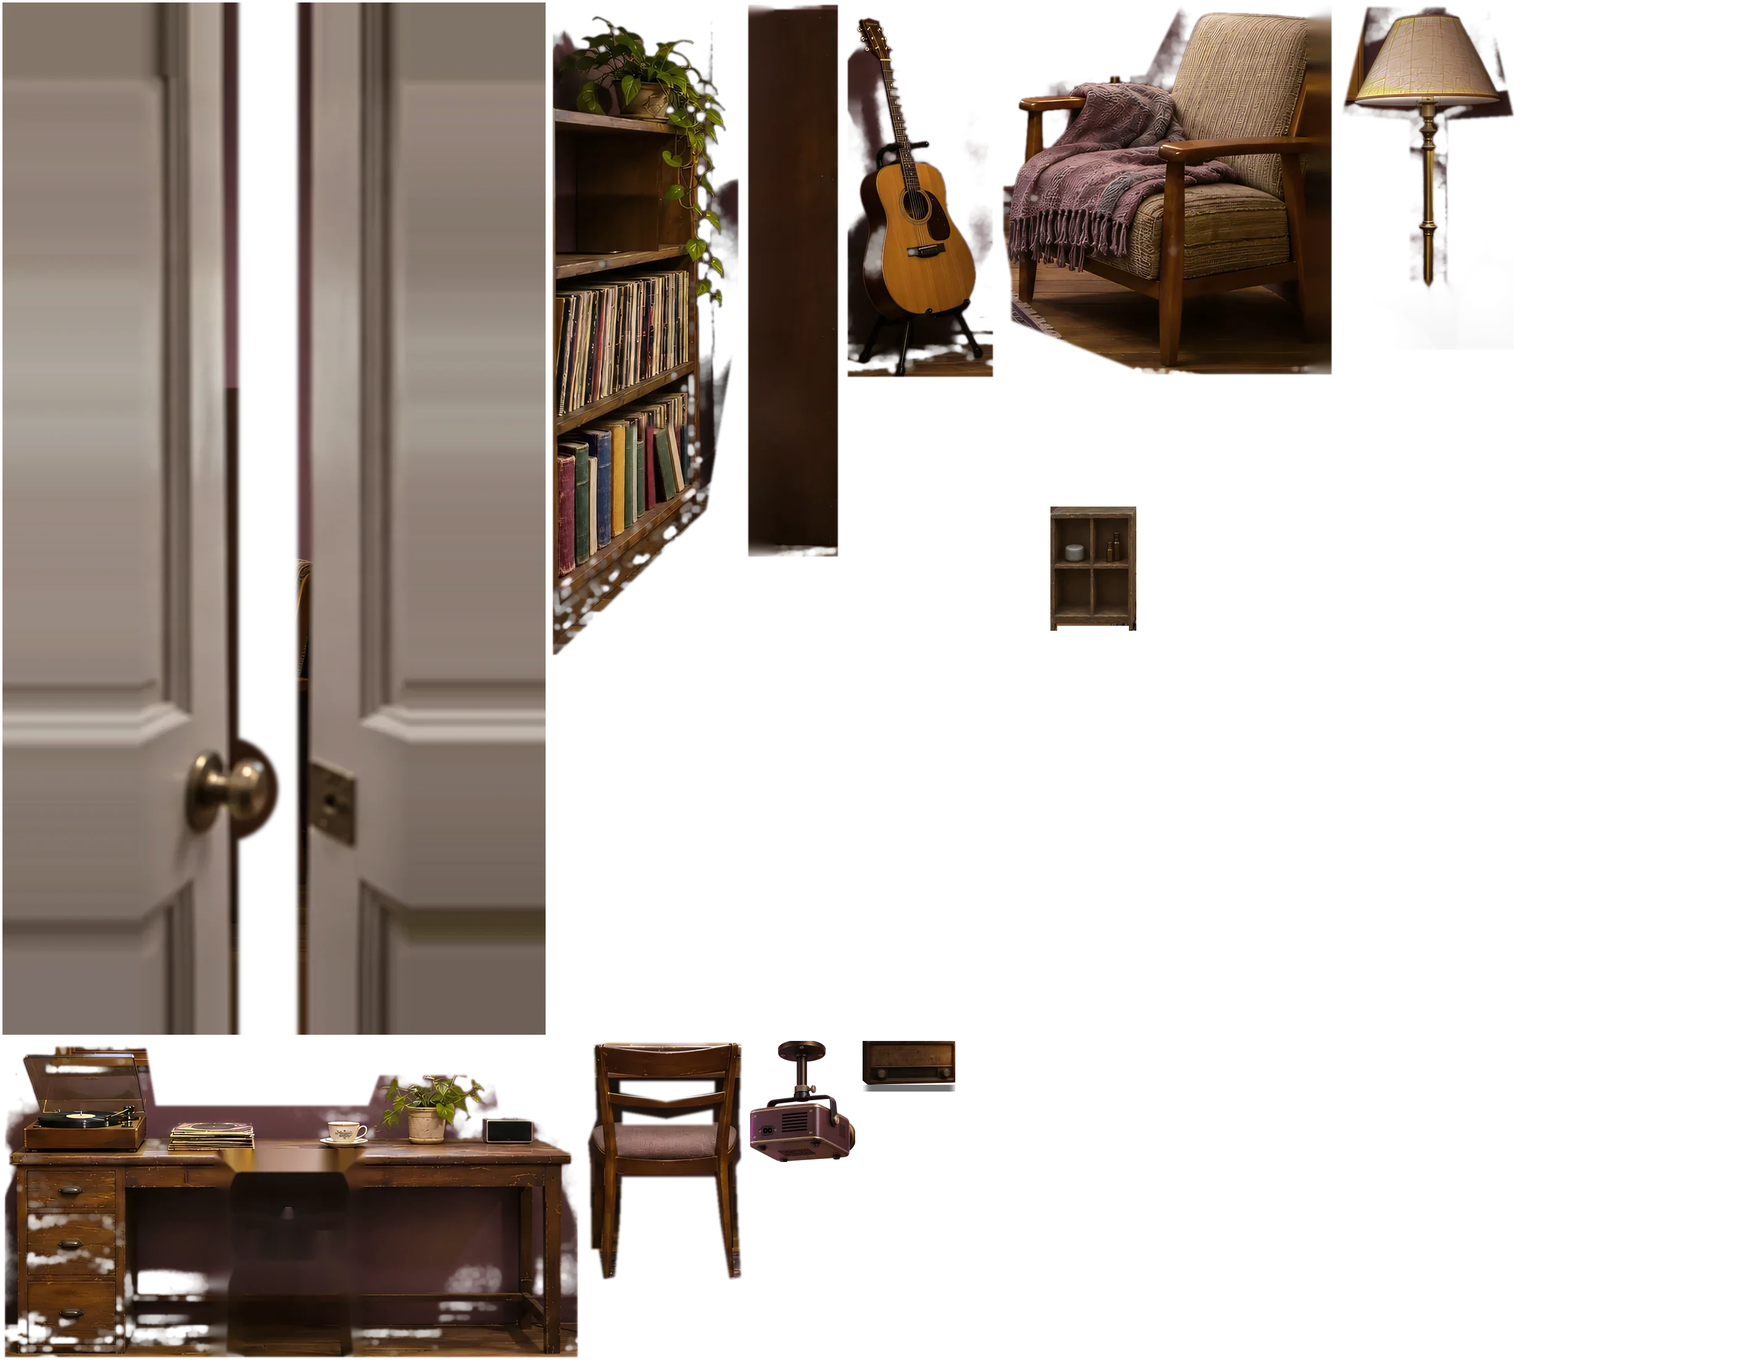
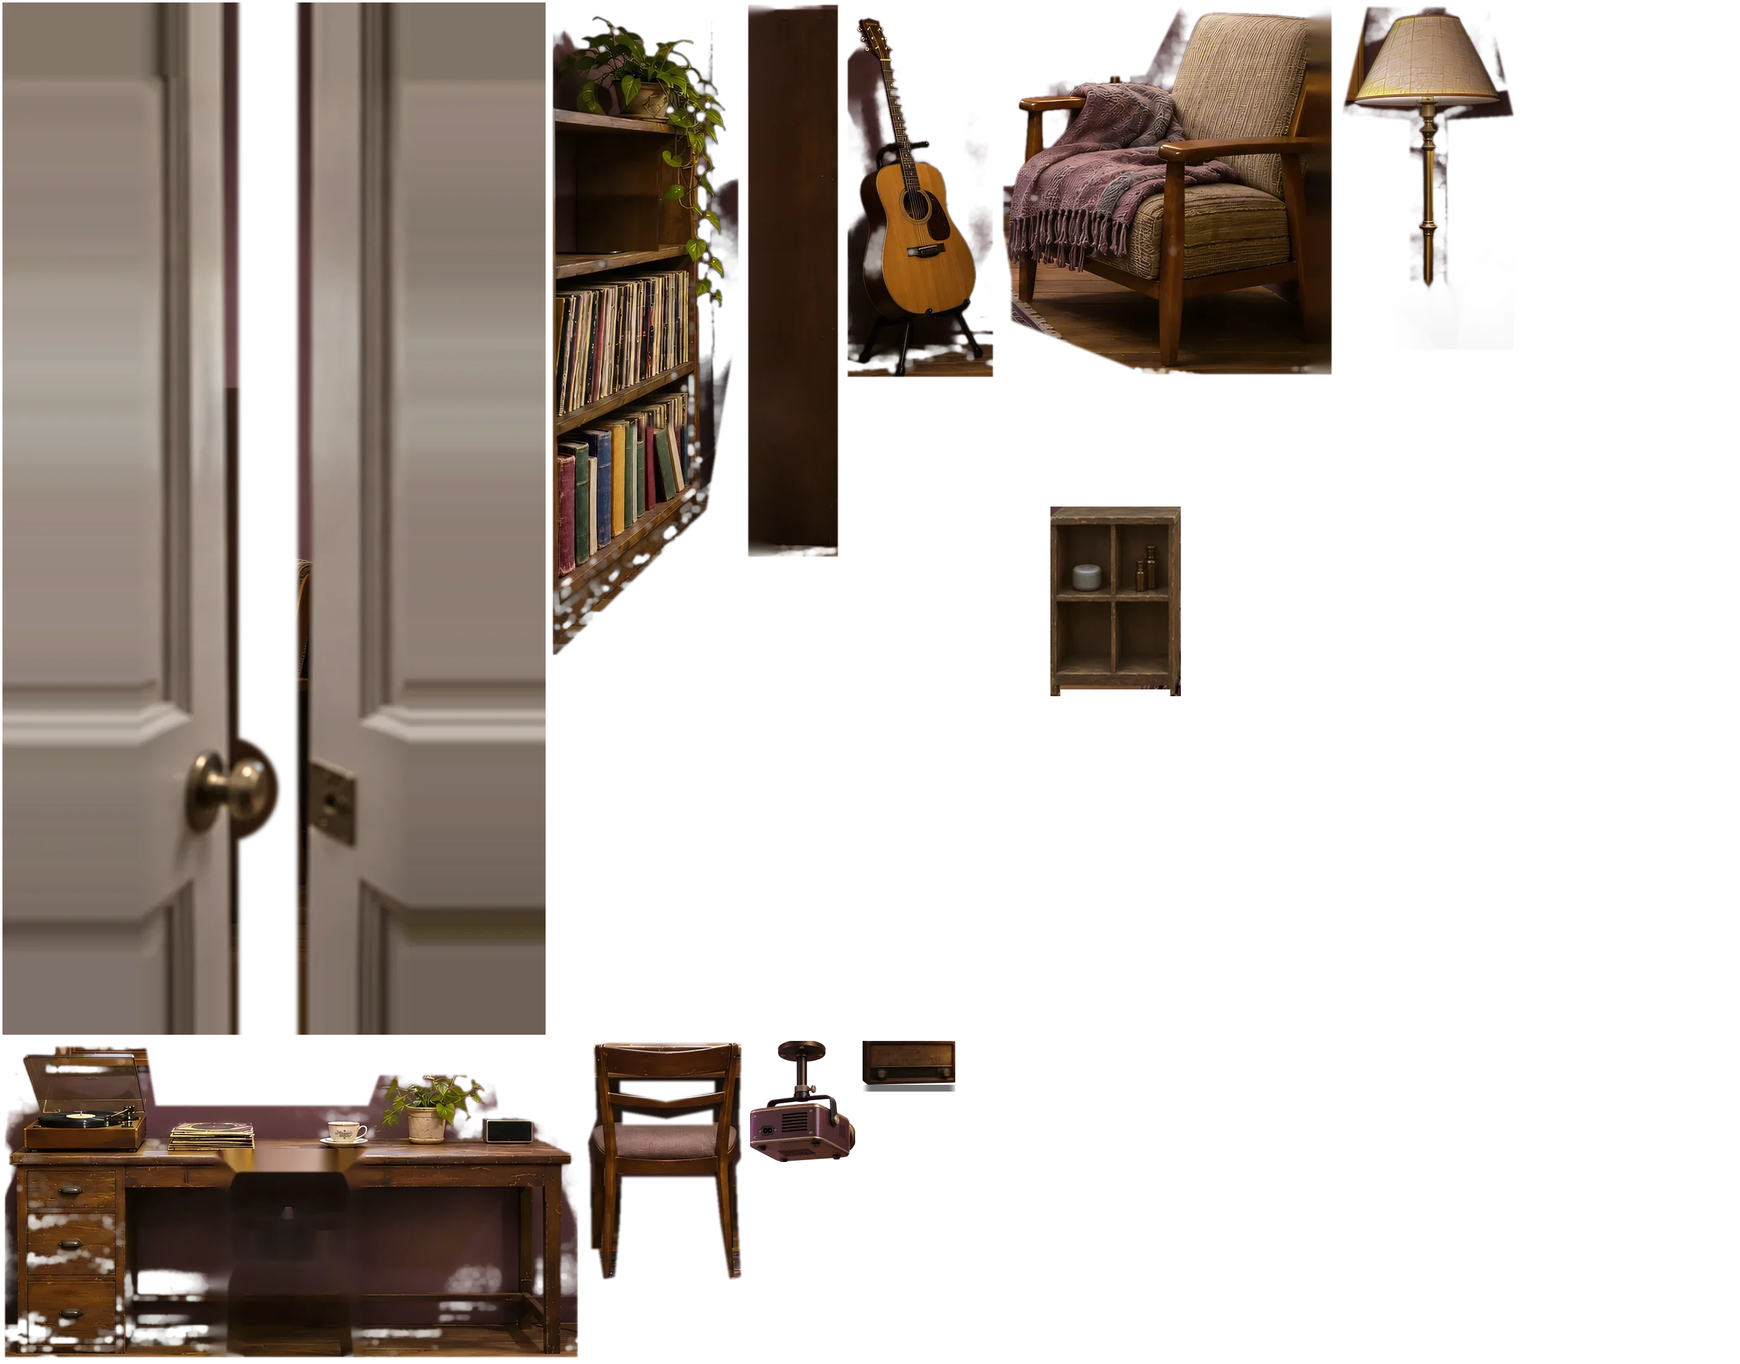
책꽂이 1.5배(백색소음기 실물 크기에 가깝게, 아랫칸 비움)·책상 쪽으로, 가운데 기둥 반투명이라 바깥이 비치던 것 불투명하게, 창을 연 뒤 밀려간 기둥 확실히 숨김
Claude-Session: https://claude.ai/code/session_01ESa7RAtP45d2kGoA3RKiBP

Changed region(s): [[0.5938, 0.375, 0.6875, 0.5312]]

diff --git a/index.html b/index.html
@@ -8,7 +8,7 @@
 <link rel="canonical" href="https://bora-hp.web.app/">
 <meta property="og:type" content="website"><meta property="og:site_name" content="보라다방"><meta property="og:locale" content="ko_KR">
 <meta property="og:title" content="보라다방 — 어른아이의 작은 밤 다방"><meta property="og:description" content="비 오는 창가, 오래된 노래, 잠들기 전의 소리. 어른아이의 작은 다방에 들러요.">
-<meta property="og:url" content="https://bora-hp.web.app/"><meta property="og:image" content="https://bora-hp.web.app/img/b_room_on.webp?v=20261122">
+<meta property="og:url" content="https://bora-hp.web.app/"><meta property="og:image" content="https://bora-hp.web.app/img/b_room_on.webp?v=20261123">
 <link rel="alternate" type="application/rss+xml" title="어른아이의 노트" href="rss.xml">
 <link rel="manifest" href="manifest.webmanifest"><link rel="icon" type="image/png" sizes="32x32" href="img/icon/icon-32.png"><link rel="apple-touch-icon" href="img/icon/icon-180.png"><meta name="theme-color" content="#0c0910"><link rel="apple-touch-startup-image" media="(device-width: 440px) and (device-height: 956px) and (-webkit-device-pixel-ratio: 3) and (orientation: portrait)" href="img/splash/s-1320x2868.jpg"><link rel="apple-touch-startup-image" media="(device-width: 430px) and (device-height: 932px) and (-webkit-device-pixel-ratio: 3) and (orientation: portrait)" href="img/splash/s-1290x2796.jpg"><link rel="apple-touch-startup-image" media="(device-width: 402px) and (device-height: 874px) and (-webkit-device-pixel-ratio: 3) and (orientation: portrait)" href="img/splash/s-1206x2622.jpg"><link rel="apple-touch-startup-image" media="(device-width: 393px) and (device-height: 852px) and (-webkit-device-pixel-ratio: 3) and (orientation: portrait)" href="img/splash/s-1179x2556.jpg"><link rel="apple-touch-startup-image" media="(device-width: 428px) and (device-height: 926px) and (-webkit-device-pixel-ratio: 3) and (orientation: portrait)" href="img/splash/s-1284x2778.jpg"><link rel="apple-touch-startup-image" media="(device-width: 390px) and (device-height: 844px) and (-webkit-device-pixel-ratio: 3) and (orientation: portrait)" href="img/splash/s-1170x2532.jpg"><link rel="apple-touch-startup-image" media="(device-width: 375px) and (device-height: 812px) and (-webkit-device-pixel-ratio: 3) and (orientation: portrait)" href="img/splash/s-1125x2436.jpg"><link rel="apple-touch-startup-image" media="(device-width: 414px) and (device-height: 896px) and (-webkit-device-pixel-ratio: 3) and (orientation: portrait)" href="img/splash/s-1242x2688.jpg"><link rel="apple-touch-startup-image" media="(device-width: 414px) and (device-height: 896px) and (-webkit-device-pixel-ratio: 2) and (orientation: portrait)" href="img/splash/s-828x1792.jpg"><link rel="apple-touch-startup-image" media="(device-width: 375px) and (device-height: 667px) and (-webkit-device-pixel-ratio: 2) and (orientation: portrait)" href="img/splash/s-750x1334.jpg"><meta name="apple-mobile-web-app-capable" content="yes"><meta name="mobile-web-app-capable" content="yes"><meta name="apple-mobile-web-app-title" content="보라다방"><meta name="apple-mobile-web-app-status-bar-style" content="black-translucent">
 <link rel="stylesheet" href="https://fonts.googleapis.com/css2?family=Cormorant+Garamond:ital,wght@1,500&family=Noto+Serif+KR:wght@300;400;500&display=swap">
@@ -270,9 +270,9 @@ body:has(#npBox.on) .hintline,body:has(.nowplaying.on) .hintline,body:has(#npR:n
 #fcPill[hidden]{display:none}#fcPill{font-variant-numeric:tabular-nums;letter-spacing:.08em}#fcPill.brk{color:#bfe0b6}.fcbig{font:300 clamp(44px,13vw,72px)/1 var(--serif,serif);text-align:center;font-variant-numeric:tabular-nums;margin:14px 0 4px;color:var(--ink)}.fcst{text-align:center;display:block;margin-bottom:12px}.fcdots{display:flex;gap:8px;justify-content:center;margin:0 0 14px}.fcdots i{width:9px;height:9px;border-radius:50%;border:1px solid var(--accent);opacity:.7}.fcdots i.on{background:var(--accent);opacity:1}
 .panel .cred li{display:block;line-height:1.6;font-size:13.5px;padding:11px 0}.panel .cred li::before{content:none}.cred small{display:block;opacity:.7;margin-top:3px;font-size:12px}.lnk{background:none;border:0;padding:0;color:inherit;text-decoration:underline;font:inherit;cursor:pointer}
 /* 백색소음기는 책상 오른쪽 작은 책꽂이 윗칸(방 그림에 그려져 있음) — 단추는 그 위에 투명하게, 켜지면 은은한 빛과 바람 결 */
-.wnm{position:absolute;z-index:5;left:69.95%;top:71.6%;width:2.6%;aspect-ratio:1;border-radius:50%;transform:translate(-50%,-50%);padding:0;border:0;background:none;cursor:pointer;min-width:30px}
+.wnm{position:absolute;z-index:5;left:67.9%;top:67.6%;width:2.8%;aspect-ratio:1;border-radius:50%;transform:translate(-50%,-50%);padding:0;border:0;background:none;cursor:pointer;min-width:30px}
 .wnm>svg:first-child{display:none}.wnm::after{content:"";position:absolute;left:50%;top:58%;width:44%;height:22%;transform:translate(-50%,-50%);border-radius:50%;background:radial-gradient(rgba(236,228,255,.55),rgba(236,228,255,0) 70%);opacity:0;transition:opacity .8s;pointer-events:none}.wnm.on::after{opacity:1}
-.supbtl{position:absolute;z-index:5;left:72.2%;top:71%;width:2.4%;height:4.2%;transform:translate(-50%,-50%);padding:0;border:0;border-radius:8px;background:none;cursor:pointer;min-width:30px;min-height:34px}.supbtl:focus-visible{outline:1px solid var(--accent);outline-offset:3px}
+.supbtl{position:absolute;z-index:5;left:71.6%;top:66.8%;width:2.4%;height:4.2%;transform:translate(-50%,-50%);padding:0;border:0;border-radius:8px;background:none;cursor:pointer;min-width:30px;min-height:34px}.supbtl:focus-visible{outline:1px solid var(--accent);outline-offset:3px}
 .wnm .wisps{position:absolute;left:5%;bottom:70%;width:90%;overflow:visible;fill:none;stroke:#e8e2f6;stroke-width:1;stroke-linecap:round;pointer-events:none}
 .wnm .wisps path{opacity:0}.wnm.on .wisps path{animation:wnmW 3.6s ease-in-out infinite}.wnm.on .wisps path:nth-child(2){animation-delay:1.2s}.wnm.on .wisps path:nth-child(3){animation-delay:2.4s}
 @keyframes wnmW{0%{opacity:0;transform:translateY(4px)}40%{opacity:.5}100%{opacity:0;transform:translateY(-10px)}}
@@ -865,7 +865,7 @@ body.hasnote .hs[data-p="mailbox"]{display:block!important}
 .stage.wopen .winart .wsl{transform:translateX(-885.7%)}
 /* 2026-11-22 열린 창(GPT 그림, 세 가지 밝기): 기둥이 밀려가는 동안 오른쪽 창짝 전체가 겹친 '열린 창' 그림으로 천천히 바뀐다 */
 .winart .wos{position:absolute;inset:0;opacity:0;transition:opacity .9s ease}.stage.wopen .winart .wos{opacity:1;transition:opacity 1.4s ease 1.1s}
-.stage.wopen .winart .wsl{opacity:0;transition:transform 2.4s cubic-bezier(.45,.05,.25,1),opacity .6s ease 2.1s}
+.stage.wopen .winart .wsl{opacity:0!important;transition:transform 2.4s cubic-bezier(.45,.05,.25,1),opacity .6s ease 2.1s}
 .window.wopen #rain{-webkit-mask-image:linear-gradient(90deg,#000 49%,transparent 51%);mask-image:linear-gradient(90deg,#000 49%,transparent 51%)}
 @media (prefers-reduced-motion:reduce){.winart .wsl{transition:none}}
 .beam .winart .wd{filter:brightness(.6) saturate(.7)}
@@ -898,15 +898,15 @@ body.hasnote .hs[data-p="mailbox"]{display:block!important}
     <iframe id="sv" title="창밖 거리" hidden loading="lazy" referrerpolicy="no-referrer-when-downgrade" allowfullscreen></iframe>
     <div class="layer" id="rain" aria-hidden="true"></div>
   </div>
-  <img class="room" id="roomimg" src="img/b_room_on.webp?v=20261122" alt="문을 열고 들여다본 작은 음악방. 책상과 창, 기타와 레코드장, 스탠드 옆 안락의자">
-  <img class="room off" id="roomoff" src="img/b_room_off.webp?v=20261122" alt="">
+  <img class="room" id="roomimg" src="img/b_room_on.webp?v=20261123" alt="문을 열고 들여다본 작은 음악방. 책상과 창, 기타와 레코드장, 스탠드 옆 안락의자">
+  <img class="room off" id="roomoff" src="img/b_room_off.webp?v=20261123" alt="">
   <img class="room day" id="roomday" alt="">
   <button class="supbtl" id="supBtl" type="button" hidden aria-label="책꽂이 유리병 · 소리 한 방울"></button>
   <button class="wnm" id="wnm" type="button" aria-label="백색소음기 켜고 끄기 · 길게 누르면 소리 섞기"><svg viewBox="0 0 60 44" aria-hidden="true"><defs><linearGradient id="wnB" x1="0" x2="1"><stop offset="0" stop-color="#7f7c9c"/><stop offset=".35" stop-color="#9895b4"/><stop offset=".7" stop-color="#6b6788"/><stop offset="1" stop-color="#3f3b57"/></linearGradient><linearGradient id="wnT" x1="0" x2="1" y1="0" y2="1"><stop offset="0" stop-color="#b9b6d3"/><stop offset="1" stop-color="#8a87a6"/></linearGradient></defs><ellipse cx="30" cy="41" rx="27" ry="3" fill="#05030a" opacity=".55"/><path d="M5 16L5 37A25 5 0 0 0 55 37L55 16Z" fill="url(#wnB)"/><path d="M5 16L5 24A25 5 0 0 0 55 24L55 16Z" fill="#5d5a78" opacity=".55"/><g stroke="#1a1626" stroke-width="1.6" stroke-linecap="round" opacity=".85"><path d="M10 19.5v4.5M15 20.3v4.7M20 20.8v4.8M25 21v5M30 21.1v5M35 21v5M40 20.8v4.8M45 20.3v4.7M50 19.5v4.5"/></g><ellipse cx="30" cy="16" rx="25" ry="5" fill="url(#wnT)"/><ellipse cx="30" cy="16" rx="9" ry="1.8" fill="#6a6786" opacity=".7"/><path d="M8 13.8A25 5 0 0 1 30 11" stroke="#d9d6f0" stroke-width=".8" fill="none" opacity=".6"/></svg><svg class="wisps" viewBox="0 0 34 26" aria-hidden="true"><path d="M8 22c-2-4 2-6 0-10"/><path d="M17 22c-2-5 3-7 0-12"/><path d="M26 22c-2-4 2-6 0-10"/></svg></button>
   <canvas class="room" id="roomgl" aria-hidden="true"></canvas>
   <div class="record pl" data-z=".95" aria-hidden="true"><i></i></div>
   <div class="steam pl" data-z=".95" aria-hidden="true"><i></i><i></i><i></i></div>
-  <div class="layer pl" data-z="1" data-ax="50" data-ay="33" style="z-index:3;pointer-events:none"><div class="blind" id="blind"><i class="hem"></i></div><div class="winart" aria-hidden="true"><img class="wu w-on" src="img/win/frame_on.webp?v=20261117" alt=""><img class="wu w-off" src="img/win/frame_off.webp?v=20261117" alt=""><img class="wu w-day" src="img/win/frame_day.webp?v=20261117" alt="" loading="lazy"><div class="wos"><img class="w-on" src="img/win/open_on.webp?v=20261122" alt="" loading="lazy"><img class="w-off" src="img/win/open_off.webp?v=20261122" alt="" loading="lazy"><img class="w-day" src="img/win/open_day.webp?v=20261122" alt="" loading="lazy"></div><div class="wsl"><img class="w-on" src="img/win/stile_on.webp?v=20261117" alt=""><img class="w-off" src="img/win/stile_off.webp?v=20261117" alt=""><img class="w-day" src="img/win/stile_day.webp?v=20261117" alt="" loading="lazy"></div><img class="wd w-on" src="img/win/down_on.webp?v=20261114" alt="" loading="lazy"><img class="wd w-off" src="img/win/down_off.webp?v=20261114" alt="" loading="lazy"><img class="wd w-day" src="img/win/down_day.webp?v=20261114" alt="" loading="lazy"></div><div class="proj" id="proj" aria-label="프로젝터 화면"><div class="pv" id="pv"></div></div></div>
+  <div class="layer pl" data-z="1" data-ax="50" data-ay="33" style="z-index:3;pointer-events:none"><div class="blind" id="blind"><i class="hem"></i></div><div class="winart" aria-hidden="true"><img class="wu w-on" src="img/win/frame_on.webp?v=20261117" alt=""><img class="wu w-off" src="img/win/frame_off.webp?v=20261117" alt=""><img class="wu w-day" src="img/win/frame_day.webp?v=20261117" alt="" loading="lazy"><div class="wos"><img class="w-on" src="img/win/open_on.webp?v=20261122" alt="" loading="lazy"><img class="w-off" src="img/win/open_off.webp?v=20261122" alt="" loading="lazy"><img class="w-day" src="img/win/open_day.webp?v=20261122" alt="" loading="lazy"></div><div class="wsl"><img class="w-on" src="img/win/stile_on.webp?v=20261123" alt=""><img class="w-off" src="img/win/stile_off.webp?v=20261123" alt=""><img class="w-day" src="img/win/stile_day.webp?v=20261123" alt="" loading="lazy"></div><img class="wd w-on" src="img/win/down_on.webp?v=20261114" alt="" loading="lazy"><img class="wd w-off" src="img/win/down_off.webp?v=20261114" alt="" loading="lazy"><img class="wd w-day" src="img/win/down_day.webp?v=20261114" alt="" loading="lazy"></div><div class="proj" id="proj" aria-label="프로젝터 화면"><div class="pv" id="pv"></div></div></div>
   <canvas class="room" id="roomgl2" aria-hidden="true"></canvas>
   <svg class="beamsvg" viewBox="0 0 2000 1126" preserveAspectRatio="none" aria-hidden="true"><defs><linearGradient id="bg1" x1="0" y1="0" x2="1" y2="1"><stop offset="0" stop-color="#fff" stop-opacity=".7"/><stop offset=".22" stop-color="#e8eeff" stop-opacity=".16"/><stop offset="1" stop-color="#cfe0ff" stop-opacity=".02"/></linearGradient><filter id="bf1" x="-20%" y="-20%" width="140%" height="140%"><feGaussianBlur stdDeviation="11"/></filter><clipPath id="bc1"><polygon id="beamC"/></clipPath></defs><polygon id="beamP" fill="url(#bg1)" filter="url(#bf1)"/><g clip-path="url(#bc1)" id="dust"></g><circle id="beamL" r="5" fill="#fff8e8" filter="url(#bf1)"/></svg>
   <div class="dial pl" data-z=".76"></div>
@@ -2603,7 +2603,7 @@ function drawW(now,mx,my,still){
 const canvas=$('roomgl'), img=$('roomimg'), imgOff=$('roomoff'), cam=$('cam'); let pan=0, pnS=0;
 let dayMix=0,dayTex=false,dayBusy=false,tx=0,ty=0,mx=0,my=0,gl,ready=false,lampMix=1,PX=-9999,PY=-9999,hasPtr=false,flickAt=performance.now()+14000,uz=1,Q=1,qLevel=0,fxOff=false,fpsN=0,fpsT=0,lastNow=0,enterAt=0;
 // 방의 뼈대: 사진 가로 2000 단위, 뒷벽까지 깊이 f. 가구는 제 깊이에 세운 판
-const BM={"W": 2560, "H": 1441, "S": 1.28, "f": 1700.0, "c": [968.0, 512.0], "box": {"tl": [-548.0, -368.0, 1700.0], "tr": [662.0, -368.0, 1700.0], "bl": [-548.0, 365.0, 1700.0], "br": [662.0, 365.0, 1700.0], "ntl": [-548.0, -431.24210526315784, 340.0], "ntr": [662.0, -448.8594285714286, 340.0], "nbl": [-548.0, 447.90758620689655, 340.0], "nbr": [662.0, 426.06666666666666, 340.0]}, "atlas": [2816, 2208], "layers": [{"n": "lamp", "rect": [1915, 425, 2202, 991], "at": [2167, 4], "plane": ["z", 0.93]}, {"n": "guitar", "rect": [561, 550, 804, 1160], "at": [1368, 4], "plane": ["z", 0.962]}, {"n": "desk", "rect": [826, 643, 1761, 1161], "at": [4, 1683], "plane": ["z", 0.952]}, {"n": "chair", "rect": [1157, 820, 1414, 1212], "at": [947, 1683], "plane": ["z", 0.8786]}, {"n": "shelfF", "rect": [276, 338, 584, 1398], "at": [891, 4], "plane": ["x", -520.0]}, {"n": "shelfS", "rect": [123, 497, 276, 1398], "at": [1207, 4], "plane": ["z", 0.6915]}, {"n": "radio", "rect": [294, 668, 448, 754], "at": [1394, 1683], "plane": ["x", -517.0]}, {"n": "cubby", "rect": [1751, 963, 1890, 1164], "at": [1700, 820], "plane": ["z", 0.95]}, {"n": "armchair", "rect": [1874, 758, 2414, 1364], "at": [1619, 4], "plane": ["z", 0.78]}, {"n": "projector", "rect": [630, 20, 804, 220], "at": [1212, 1683], "plane": ["z", 0.75]}, {"n": "doorL", "rect": [-218, -115, 238, 1556], "at": [4, 4], "plane": ["z", 0.5]}, {"n": "doorR", "rect": [2363, -115, 2778, 1556], "at": [468, 4], "plane": ["z", 0.5]}]};
+const BM={"W": 2560, "H": 1441, "S": 1.28, "f": 1700.0, "c": [968.0, 512.0], "box": {"tl": [-548.0, -368.0, 1700.0], "tr": [662.0, -368.0, 1700.0], "bl": [-548.0, 365.0, 1700.0], "br": [662.0, 365.0, 1700.0], "ntl": [-548.0, -431.24210526315784, 340.0], "ntr": [662.0, -448.8594285714286, 340.0], "nbl": [-548.0, 447.90758620689655, 340.0], "nbr": [662.0, 426.06666666666666, 340.0]}, "atlas": [2816, 2208], "layers": [{"n": "lamp", "rect": [1915, 425, 2202, 991], "at": [2167, 4], "plane": ["z", 0.93]}, {"n": "guitar", "rect": [561, 550, 804, 1160], "at": [1368, 4], "plane": ["z", 0.962]}, {"n": "desk", "rect": [826, 643, 1761, 1161], "at": [4, 1683], "plane": ["z", 0.952]}, {"n": "chair", "rect": [1157, 820, 1414, 1212], "at": [947, 1683], "plane": ["z", 0.8786]}, {"n": "shelfF", "rect": [276, 338, 584, 1398], "at": [891, 4], "plane": ["x", -520.0]}, {"n": "shelfS", "rect": [123, 497, 276, 1398], "at": [1207, 4], "plane": ["z", 0.6915]}, {"n": "radio", "rect": [294, 668, 448, 754], "at": [1394, 1683], "plane": ["x", -517.0]}, {"n": "cubby", "rect": [1677, 860, 1888, 1167], "at": [1700, 820], "plane": ["z", 0.945]}, {"n": "armchair", "rect": [1874, 758, 2414, 1364], "at": [1619, 4], "plane": ["z", 0.78]}, {"n": "projector", "rect": [630, 20, 804, 220], "at": [1212, 1683], "plane": ["z", 0.75]}, {"n": "doorL", "rect": [-218, -115, 238, 1556], "at": [4, 4], "plane": ["z", 0.5]}, {"n": "doorR", "rect": [2363, -115, 2778, 1556], "at": [468, 4], "plane": ["z", 0.5]}]};
 const CAM={x:0,y:0,z:0,yaw:0,pitch:0}; let BU={}, NV=0, LQ=[];
 function proj(X,Y,Z){ let x=X-CAM.x,y=Y-CAM.y,z=Z-CAM.z; const cy=Math.cos(CAM.yaw),sy=Math.sin(CAM.yaw); [x,z]=[cy*x-sy*z,sy*x+cy*z]; const cp=Math.cos(CAM.pitch),sp=Math.sin(CAM.pitch); [y,z]=[cp*y-sp*z,sp*y+cp*z];
   return [BM.c[0]+BM.f*x/z, BM.c[1]+BM.f*y/z, z]; }
@@ -2652,8 +2652,8 @@ function sizeGL(){ if(!gl) return; const w=scene.offsetWidth,h=scene.offsetHeigh
   for(const o of GLS){ o.cv.width=Math.max(1,Math.round(w*k)); o.cv.height=Math.max(1,Math.round(h*k)); o.gl.viewport(0,0,o.cv.width,o.cv.height); } }
 function loadDayTex(){ if(dayTex||dayBusy||!gl||!ready) return; dayBusy=true; const ims=[new Image(),new Image()]; let n=0;
   const go=()=>{ if(++n<2) return; use(0); tex(2,ims[0]); use(1); tex(2,ims[1]); use(0); dayTex=true; };
-  ims.forEach((im,i)=>{ im.onload=go; im.onerror=()=>{ dayBusy=false; }; im.src=i?'img/b_atlas_day.webp?v=20261122':'img/b_plate_day.webp?v=20261117'; }); }
-function startGL(){ if(S.lite||gl||!initGL()) return; const srcs=['img/b_plate_on.webp?v=20261117','img/b_plate_off.webp?v=20261117','img/b_atlas_on.webp?v=20261122','img/b_atlas_off.webp?v=20261122'], ims=srcs.map(()=>new Image()); let n=0;
+  ims.forEach((im,i)=>{ im.onload=go; im.onerror=()=>{ dayBusy=false; }; im.src=i?'img/b_atlas_day.webp?v=20261123':'img/b_plate_day.webp?v=20261117'; }); }
+function startGL(){ if(S.lite||gl||!initGL()) return; const srcs=['img/b_plate_on.webp?v=20261117','img/b_plate_off.webp?v=20261117','img/b_atlas_on.webp?v=20261123','img/b_atlas_off.webp?v=20261123'], ims=srcs.map(()=>new Image()); let n=0;
   const go=()=>{ if(++n<4) return; use(0); tex(0,ims[0]); tex(1,ims[1]); use(1); tex(0,ims[2]); tex(1,ims[3]); use(0); ready=true; sizeGL(); if(!S.lite) stage.classList.add('gl'); };
   ims.forEach((im,i)=>{ im.onload=go; im.onerror=()=>{}; im.src=srcs[i]; }); new ResizeObserver(sizeGL).observe(canvas); }
 function drawRoom(now,still,fl){
@@ -2698,7 +2698,7 @@ function frame(now){
   const gx=still?0:Math.max(-1,Math.min(1,tx+Math.sin(idle*.23)*(fine?.18:.3))), gy=still?0:ty+Math.sin(idle*.17+1)*(fine?.10:.26);
   mx+=(gx-mx)*.06; my+=(gy-my)*.06;
   lampMix+=((S.lamp?Math.max(window.SLP||0,1-(window.__lampLv==null?1:window.__lampLv)):1)-lampMix)*.09;
-  { const wd=!!(S.w&&S.w.isDay); if(wd!==stage.classList.contains('isday')){ stage.classList.toggle('isday',wd); const rd=$('roomday'); if(wd&&rd&&!rd.getAttribute('src')) rd.src='img/b_room_day.webp?v=20261122'; }
+  { const wd=!!(S.w&&S.w.isDay); if(wd!==stage.classList.contains('isday')){ stage.classList.toggle('isday',wd); const rd=$('roomday'); if(wd&&rd&&!rd.getAttribute('src')) rd.src='img/b_room_day.webp?v=20261123'; }
     if(wd) loadDayTex(); dayMix+=((wd&&(dayTex||S.lite||!gl)?1:0)-dayMix)*.02; }
   // 카메라: 문간에서 한 걸음 들어서고, 고개를 따라 몸이 조금씩 움직인다
   const te=enterAt?Math.min(1,(now-enterAt)/3800):0, ee=1-Math.pow(1-te,3); pnS+=(pn-pnS)*.09;
